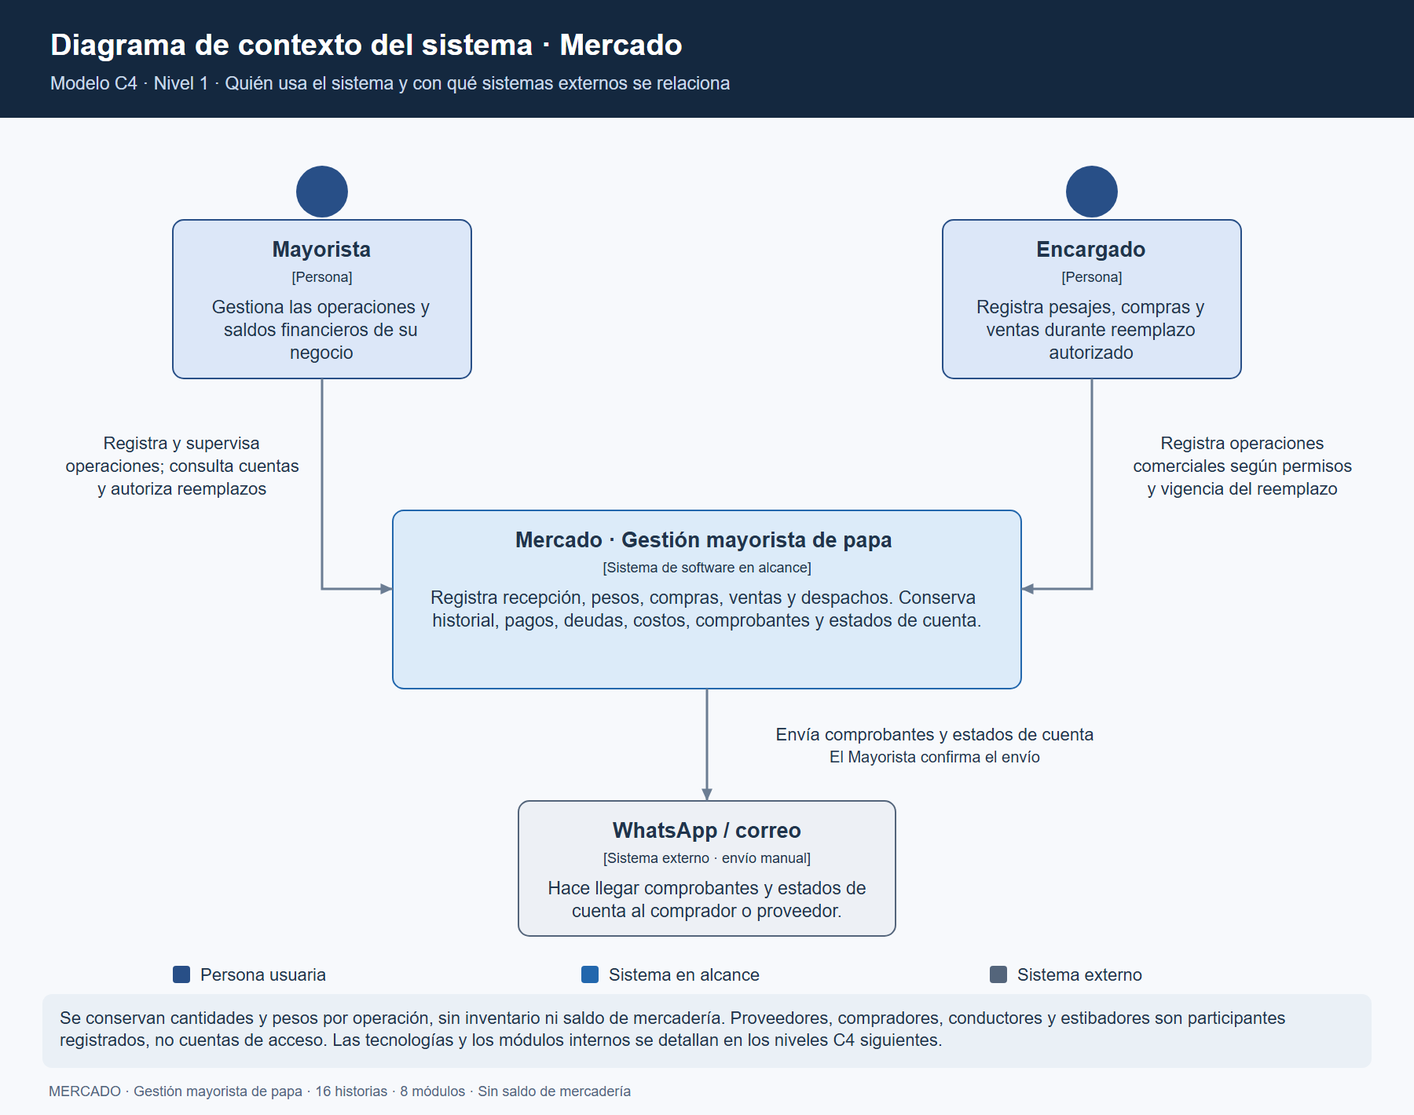
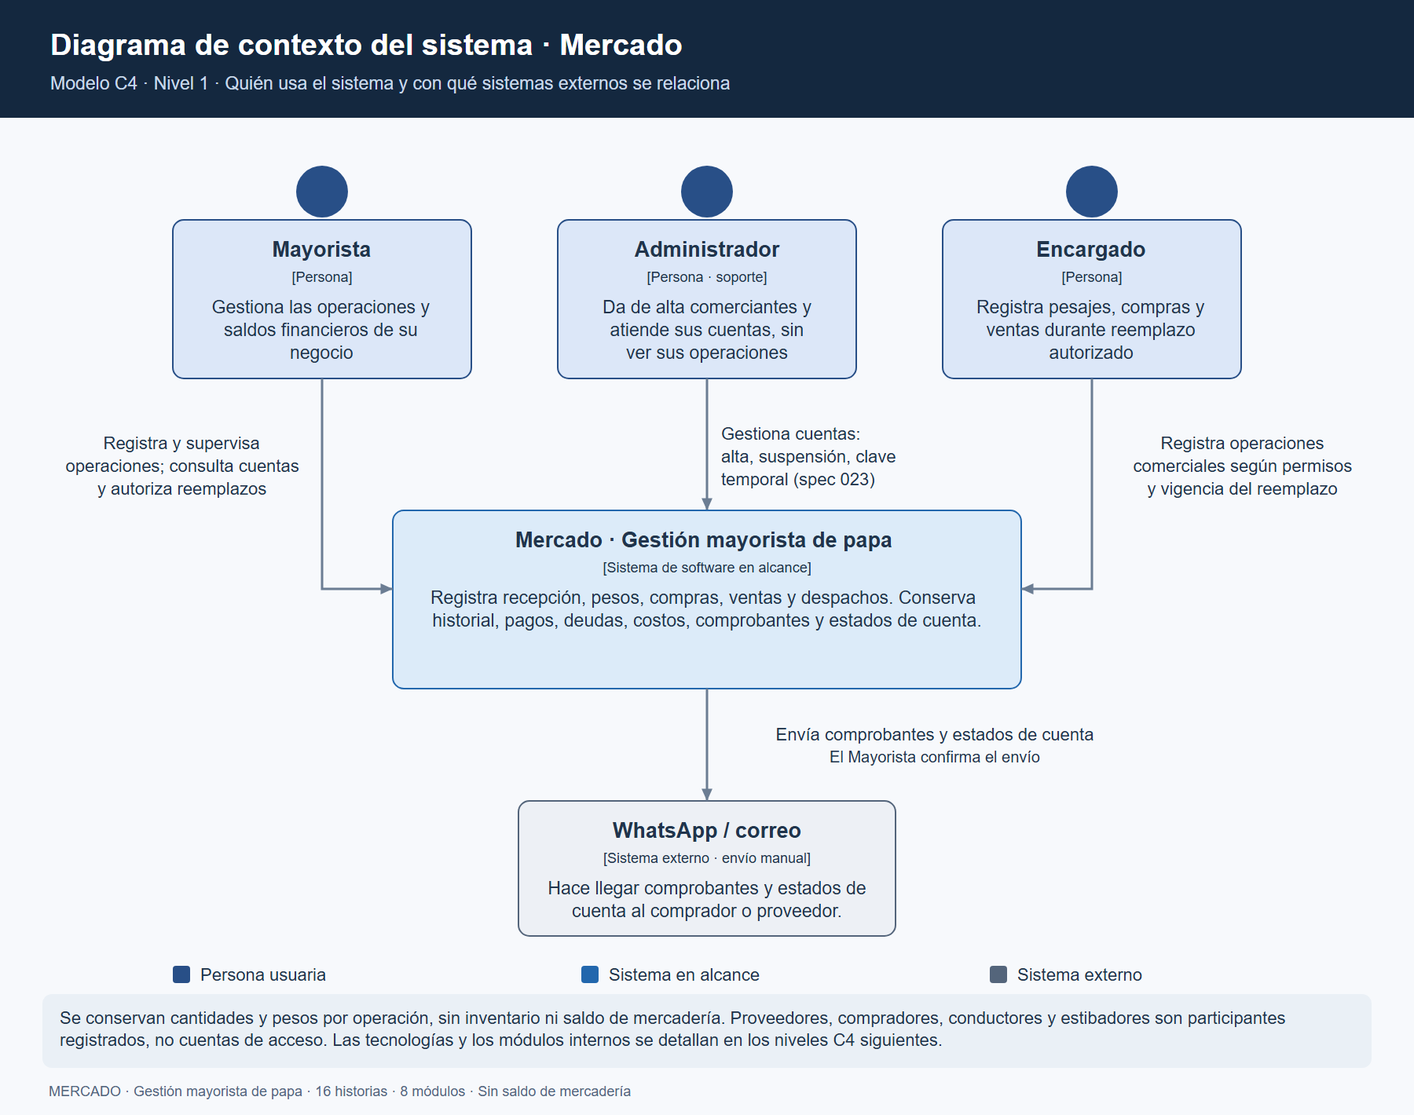
docs(023): Administrador en actores, requisitos, ADR-07, componentes y C4 con evidencia

Changed region(s): [[0.3733, 0.1549, 0.6222, 0.3408], [0.4978, 0.3718, 0.6222, 0.4338]]

diff --git a/specs/023-administrador-comerciantes/tasks.md b/specs/023-administrador-comerciantes/tasks.md
@@ -1,33 +1,33 @@
 # Tareas 023: Administrador de comerciantes y soporte
 
-**Especificación:** [spec 023](spec.md) · **Plan:** [plan 023](plan.md) · **Estado:** pendiente; se implementa después de la exposición del Sprint 2
+**Especificación:** [spec 023](spec.md) · **Plan:** [plan 023](plan.md) · **Estado:** implementada en la rama `feat/023-administrador` el 26 de noviembre de 2026; quedan T2314 (emulador y celular) y T2316 (despliegue)
 
 Cada tarea se marca `[x]` solo con evidencia enlazable.
 
 ## Backend
 
-- [ ] **T2301** Migración 031: `admin` en `user_role`, `businesses.kind` y `users.must_change_password`, solo agregando.
-- [ ] **T2302** `UserRole.Admin`, `BusinessKind` y script `bootstrap:admin`.
-- [ ] **T2303** Inicio de sesión: negocio suspendido → `401`; `must_change_password` limita la sesión; último acceso e intentos fallidos.
-- [ ] **T2304** `PATCH /api/v1/auth/password` para el cambio obligatorio.
-- [ ] **T2305** Rutas `/api/v1/admin/merchants…`: listar, alta, suspender, reactivar, restablecer contraseña, cerrar sesiones y estado.
-- [ ] **T2306** Auditoría de cada acción del Administrador, con motivo.
-- [ ] **T2307** OpenAPI con resumen para cada ruta nueva.
+- [x] **T2301** Migración 031: `admin` en `user_role`, `businesses.kind` y `users.must_change_password`, solo agregando. Evidencia: [migración 031](../../backend/src/platform/database/migrations/202611260031-merchant-administration.ts), con la tabla `admin_operations` para la idempotencia; e2e en base nueva ([verificación](../../docs/sdd/verificacion-administrador-comerciantes-2026-11-26.md)).
+- [x] **T2302** `UserRole.Admin`, `BusinessKind` y script `bootstrap:admin`. Evidencia: [`bootstrap-admin.ts`](../../backend/src/platform/database/bootstrap-admin.ts); probado en base nueva: crea y luego se niega ([verificación](../../docs/sdd/verificacion-administrador-comerciantes-2026-11-26.md)).
+- [x] **T2303** Inicio de sesión: negocio suspendido → `401`; `must_change_password` limita la sesión; último acceso e intentos fallidos. Evidencia: e2e: suspendido → `401`, cambio obligatorio → `403 password-change-required`, contador de intentos ([verificación](../../docs/sdd/verificacion-administrador-comerciantes-2026-11-26.md)).
+- [x] **T2304** `PATCH /api/v1/auth/password` para el cambio obligatorio. Evidencia: [`change-password.use-case.ts`](../../backend/src/modules/identity/application/change-password.use-case.ts); e2e ([verificación](../../docs/sdd/verificacion-administrador-comerciantes-2026-11-26.md)).
+- [x] **T2305** Rutas `/api/v1/admin/merchants…`: listar, alta, suspender, reactivar, restablecer contraseña, cerrar sesiones y estado. Evidencia: [`merchant-administration.controller.ts`](../../backend/src/modules/identity/http/merchant-administration.controller.ts); e2e ([verificación](../../docs/sdd/verificacion-administrador-comerciantes-2026-11-26.md)).
+- [x] **T2306** Auditoría de cada acción del Administrador, con motivo. Evidencia: auditoría en el comerciante y en la plataforma con motivo y `clientOperationId`; e2e ([verificación](../../docs/sdd/verificacion-administrador-comerciantes-2026-11-26.md)).
+- [x] **T2307** OpenAPI con resumen para cada ruta nueva. Evidencia: [`openapi.json`](../../docs/api/openapi.json) regenerado; prueba de resúmenes en verde ([verificación](../../docs/sdd/verificacion-administrador-comerciantes-2026-11-26.md)).
 
 ## App
 
-- [ ] **T2308** Menú del Administrador «Comerciantes» con lista, alta, detalle y acciones de soporte.
-- [ ] **T2309** Pantalla obligatoria «Crea tu contraseña».
-- [ ] **T2310** «¿Olvidó su clave?» según el rol.
+- [x] **T2308** Menú del Administrador «Comerciantes» con lista, alta, detalle y acciones de soporte. Evidencia: [`merchants-screen.tsx`](../../app/src/features/merchants/screens/merchants-screen.tsx); pruebas de la app ([verificación](../../docs/sdd/verificacion-administrador-comerciantes-2026-11-26.md)).
+- [x] **T2309** Pantalla obligatoria «Crea tu contraseña». Evidencia: [`change-password-screen.tsx`](../../app/src/features/auth/screens/change-password-screen.tsx); prueba de navegación ([verificación](../../docs/sdd/verificacion-administrador-comerciantes-2026-11-26.md)).
+- [x] **T2310** «¿Olvidó su clave?» según el rol. Evidencia: [`login-screen.tsx`](../../app/src/features/auth/screens/login-screen.tsx): el Encargado acude al Mayorista y el Mayorista al soporte de MAÑAY ([verificación](../../docs/sdd/verificacion-administrador-comerciantes-2026-11-26.md)).
 
 ## Pruebas y verificación
 
-- [ ] **T2311** Unitarias del backend y de la app.
-- [ ] **T2312** E2e en PostgreSQL, incluida la prueba que exige `403` al Administrador en todas las rutas de negocio.
-- [ ] **T2313** Carpeta «Administrador» en la colección de Postman.
+- [x] **T2311** Unitarias del backend y de la app. Evidencia: backend 369 y app 759 pruebas en verde ([verificación](../../docs/sdd/verificacion-administrador-comerciantes-2026-11-26.md)).
+- [x] **T2312** E2e en PostgreSQL, incluida la prueba que exige `403` al Administrador en todas las rutas de negocio. Evidencia: [`merchant-administration.e2e-spec.ts`](../../backend/test/merchant-administration.e2e-spec.ts); 76 e2e en verde ([verificación](../../docs/sdd/verificacion-administrador-comerciantes-2026-11-26.md)).
+- [x] **T2313** Carpeta «Administrador» en la colección de Postman. Evidencia: [colección aparte](../../backend/test/postman/administrador.postman_collection.json), porque la otra ya usa el límite de 5 inicios de sesión por minuto: 14 peticiones y 23 aserciones sin fallos ([verificación](../../docs/sdd/verificacion-administrador-comerciantes-2026-11-26.md)).
 - [ ] **T2314** Recorrido en el emulador y en el celular con capturas.
 
 ## Documentación y despliegue
 
-- [ ] **T2315** Actores y matriz de autorización, requisitos, ADR-07, componentes y C4.
+- [x] **T2315** Actores y matriz de autorización, requisitos, ADR-07, componentes y C4. Evidencia: [actores](../../docs/01-analisis-de-sistema/01-actores.md), [RF28](../../docs/01-analisis-de-sistema/03-requisitos-funcionales.md), [ADR-07](../../docs/01-analisis-de-sistema/07-decisiones-arquitectonicas.md), [componentes](../../docs/02-arquitectura-software/componentes-arquitectonicos.md) y [C4 nivel 1](../../docs/04-modelo-c4/Nivel1-DiagramadeContextodelSistema.md) ([verificación](../../docs/sdd/verificacion-administrador-comerciantes-2026-11-26.md)).
 - [ ] **T2316** Despliegue en Render y primer Administrador en Supabase con `bootstrap:admin`.

diff --git a/docs/sdd/verificacion-administrador-comerciantes-2026-11-26.md b/docs/sdd/verificacion-administrador-comerciantes-2026-11-26.md
@@ -1,0 +1,53 @@
+# Verificación del Administrador de comerciantes
+
+> **Spec:** [023](../../specs/023-administrador-comerciantes/spec.md) · **Fecha:** 26 de noviembre de 2026 · **Rama:** `feat/023-administrador` · **Decisión:** [ADR-07](../01-analisis-de-sistema/07-decisiones-arquitectonicas.md)
+
+Verificación local del backend y la app antes de fusionar. No incluye el emulador, el celular ni Render y Supabase (ver «Pendiente»).
+
+## Backend
+
+| Comprobación | Resultado |
+| --- | --- |
+| `npx tsc --noEmit --incremental false` | Sin errores |
+| `npm run lint` | Sin errores (solo advertencias que ya existían) |
+| `npm test` (Jest, unitarias) | 77 suites, 369 pruebas, todas en verde |
+| `npm run test:e2e` en PostgreSQL 17 portable, base nueva | 11 suites, 76 pruebas, todas en verde |
+| `npm run build` | Correcto |
+| `bootstrap:admin` en una base nueva | La primera vez crea el negocio de plataforma y el Administrador; la segunda se niega («an administrator already exists») |
+| Postman ([colección del Administrador](../../backend/test/postman/administrador.postman_collection.json)) | 14 peticiones y 23 aserciones sin fallos ([salida](../../backend/test/postman/resultados/2026-11-26-administrador.txt)); la contraseña del Administrador no aparece en la salida |
+| [`openapi.json`](../api/openapi.json) | Regenerado con la API local: siete rutas del Administrador y `PATCH /auth/password`, cada una con resumen en español |
+
+La prueba e2e [`merchant-administration.e2e-spec.ts`](../../backend/test/merchant-administration.e2e-spec.ts) cubre:
+
+- alta idempotente (mismo `clientOperationId` → mismo comerciante; otros datos → `409 operation-id-conflict`; usuario repetido → `409 username-taken`);
+- primer acceso con la contraseña temporal: `GET /auth/session` responde, cualquier otra ruta `403 password-change-required`, y tras `PATCH /auth/password` se trabaja con normalidad;
+- búsqueda sin distinguir mayúsculas; el negocio de plataforma nunca aparece ni se puede suspender (`404`);
+- estado de soporte: intentos fallidos, último acceso y sesiones abiertas; un acceso correcto reinicia el contador;
+- suspensión inmediata (sesión abierta `401`, inicio de sesión `401`), con motivo auditado en el comerciante y en la plataforma; reactivación;
+- contraseña temporal nueva: la anterior y las sesiones abiertas dejan de valer;
+- **barrido del contrato OpenAPI**: cada ruta protegida fuera de `/auth`, `/admin` y `/health` responde `403` al Administrador.
+
+El barrido encontró un hueco: las lecturas del catálogo (`GET /catalog/buyers`, proveedores y variedades) no declaraban roles y respondían `200` al Administrador. Como filtran por negocio, solo habría visto el negocio de plataforma, que está vacío. Aun así se cerró en dos niveles: el `RolesGuard` niega al Administrador toda ruta que no lo nombre, y el catálogo declara sus roles por clase.
+
+## App
+
+| Comprobación | Resultado |
+| --- | --- |
+| `npm run typecheck` | Sin errores |
+| `npm run lint` | Sin errores |
+| `npm test -- --runInBand` | 111 suites, 759 pruebas, todas en verde |
+
+Las pruebas nuevas ([`merchant-administration.test.tsx`](../../app/tests/merchants/merchant-administration.test.tsx) y [`root-navigation.test.tsx`](../../app/tests/auth/root-navigation.test.tsx)) comprueban:
+
+- la sesión del Administrador y el cambio obligatorio se guardan y se validan;
+- la contraseña temporal no usa caracteres que se confunden;
+- el alta muestra la contraseña temporal una sola vez;
+- cada acción de soporte exige motivo, pide confirmación y, tras perder la conexión, reintenta con el mismo `clientOperationId`;
+- el Administrador solo tiene la pantalla «Comerciantes» y no ve la barra inferior;
+- con una contraseña temporal, la capa bloqueante muestra «Crea tu contraseña».
+
+## Pendiente
+
+- **T2314:** recorrido en el emulador y en el celular, con capturas.
+- **T2316:** despliegue en Render y primer Administrador en Supabase. El usuario lo crea con `npm run bootstrap:admin` desde su propia terminal.
+- Lector de pantalla: no verificado.

diff --git a/docs/01-analisis-de-sistema/01-actores.md b/docs/01-analisis-de-sistema/01-actores.md
@@ -1,6 +1,6 @@
 # Actores y permisos
 
-> **Proyecto:** Gestión comercial mayorista de papa · **Entregable:** 1 · **Versión:** 2.0 · **Actualización:** 29 de octubre de 2026
+> **Proyecto:** Gestión comercial mayorista de papa · **Entregable:** 1 · **Versión:** 2.1 · **Actualización:** 26 de noviembre de 2026
 
 ## Usuarios del sistema
 
@@ -8,6 +8,14 @@
 | --- | --- | --- |
 | Mayorista | Gestionar y supervisar todo el negocio | Acceso completo: recepción y pesaje, compras, ventas, cuentas, caja, costos logísticos, documentos, mensajería, reportes, analítica, auditoría y administración de Encargados. |
 | Encargado | Mantener la operación cuando el Mayorista está ausente | Con credenciales propias y un reemplazo vigente, registra pesajes, compras y ventas. No accede a cuentas, caja, documentos, mensajería, reportes, analítica ni administración. Los efectos automáticos de sus operaciones (deuda, caja, flete) se aplican sin darle acceso a esos módulos. |
+
+## Administración de la plataforma (spec 023)
+
+| Actor | Necesidad principal | Responsabilidades en el sistema |
+| --- | --- | --- |
+| Administrador | Dar de alta a cada comerciante y atender sus cuentas (soporte) | Crea el negocio y la cuenta de su Mayorista con una contraseña temporal; busca comerciantes, consulta el estado de la cuenta (último acceso, intentos fallidos, sesiones abiertas, Encargados activos), suspende, reactiva, restablece la contraseña del Mayorista y cierra sesiones, siempre con motivo. **No ve ni registra operaciones** de ningún comerciante. |
+
+Cada comerciante es un negocio con un solo Mayorista (CL-23-05); el Mayorista crea a sus propios Encargados. El Administrador vive en un negocio de plataforma que nunca recibe operaciones. Sus acciones quedan auditadas en el comerciante afectado y en la plataforma.
 
 ## Participantes comerciales
 
@@ -35,6 +43,19 @@ El negocio compra cargamentos de papa, pesa saco por saco durante la descarga, l
 | Enviar documentos por WhatsApp o correo | Sí | No |
 | Consultar reportes, historial, analítica y auditoría | Sí | No |
 | Administrar Encargados y reemplazos | Sí | No |
+
+El Administrador recibe `403` en todas las acciones de esta matriz: el servidor solo le abre las rutas que lo nombran (`/api/v1/admin/merchants`). Una prueba e2e recorre el contrato OpenAPI completo y lo exige.
+
+| Acción de soporte | Administrador | Mayorista | Encargado |
+| --- | --- | --- | --- |
+| Dar de alta un comerciante con su Mayorista | Sí | No | No |
+| Suspender o reactivar un comerciante | Sí, con motivo | No | No |
+| Asignar una contraseña temporal al Mayorista | Sí, con motivo | No | No |
+| Asignar una contraseña al Encargado | No | Sí | No |
+| Cerrar todas las sesiones de un comerciante | Sí, con motivo | No | No |
+| Cambiar su propia contraseña | Sí | Sí | Sí |
+
+Tras una contraseña temporal, la sesión solo permite crear la contraseña propia; el Administrador nunca conoce la definitiva (CL-23-03).
 
 El reemplazo dura como máximo 24 horas y el Mayorista puede revocarlo en cualquier momento. La API revalida sesión, rol, negocio y reemplazo en cada operación, incluidas las órdenes capturadas sin conexión que se sincronizan después. Iniciar sesión no concede por sí mismo permisos comerciales al Encargado.
 

diff --git a/docs/01-analisis-de-sistema/07-decisiones-arquitectonicas.md b/docs/01-analisis-de-sistema/07-decisiones-arquitectonicas.md
@@ -1,6 +1,6 @@
 # Decisiones arquitectónicas
 
-> **Proyecto:** Gestión comercial mayorista de papa · **Entregable:** 1 · **Versión:** 2.1 · **Actualización:** 25 de noviembre de 2026
+> **Proyecto:** Gestión comercial mayorista de papa · **Entregable:** 1 · **Versión:** 2.2 · **Actualización:** 26 de noviembre de 2026
 
 ## Registro de decisiones
 
@@ -25,6 +25,7 @@ Los códigos CL (clarificación) identifican las decisiones aprobadas durante la
 | — | Organización en ocho módulos de negocio y estado de cuenta del comprador (ver ADR) | 29 oct. 2026 | RF27 |
 | — | Monorepo con entrega y despliegue continuos (ver ADR) | 29 oct. 2026 | AC03, AC07, AC08, DA06, DA07 |
 | — | Despliegue en Render (API) y Supabase (PostgreSQL), plan gratuito (ver ADR) | 20 nov. 2026 | AC01, AC02, AC08, R03 |
+| CL-23-01…05 | Administrador de comerciantes que gestiona cuentas sin ver operaciones (ver ADR) | 26 nov. 2026 | RF01, RF28, AC04 |
 
 CL-11 (margen por valoración de lotes) quedó sin efecto con el retiro del control de existencias.
 
@@ -88,6 +89,17 @@ Consecuencias:
 - Es un entorno de prueba y demostración. Para producción con uso real conviene un plan de pago o un servidor propio con el despliegue por SSH de ADR-05.
 
 Detalle en la [vista de despliegue](../03-diseño-de-software/vista-de-despliegue.md) y la [guía de despliegue](../03-diseño-de-software/guia-despliegue-supabase-render.md).
+
+## ADR-07 · Administrador de comerciantes sin acceso a operaciones
+
+**Estado:** aprobado el 26 de noviembre de 2026 ([spec 023](../../specs/023-administrador-comerciantes/spec.md)).
+
+Un rol `admin` en un negocio de plataforma único (`businesses.kind = platform`) da de alta comerciantes y les da soporte desde la misma app, en el menú «Comerciantes». No es un «superusuario»: el `RolesGuard` le niega toda ruta que no lo nombre, de modo que un controlador nuevo queda cerrado para él por omisión. Cada acción lleva motivo y `clientOperationId` (tabla `admin_operations`), corre en una transacción y se audita en el comerciante y en la plataforma. Una contraseña temporal obliga al usuario a crear la suya antes de cualquier otra cosa.
+
+Consecuencias:
+- El aislamiento por negocio se mantiene: el Administrador nunca lee compras, ventas, cuentas ni reportes de un comerciante.
+- Suspender un negocio corta al instante las sesiones de todos sus usuarios; los datos no se borran.
+- El primer Administrador lo crea el dueño de la plataforma con `npm run bootstrap:admin` desde su propia terminal; el script se niega si ya existe uno.
 
 ## Condiciones de habilitación de la predicción (CL-08)
 

diff --git a/docs/01-analisis-de-sistema/03-requisitos-funcionales.md b/docs/01-analisis-de-sistema/03-requisitos-funcionales.md
@@ -1,11 +1,12 @@
 # Requisitos funcionales
 
-> **Proyecto:** Gestión comercial mayorista de papa · **Entregable:** 1 · **Versión:** 2.0 · **Actualización:** 29 de octubre de 2026
+> **Proyecto:** Gestión comercial mayorista de papa · **Entregable:** 1 · **Versión:** 2.1 · **Actualización:** 26 de noviembre de 2026
 
 | Módulo | Código | Requisito |
 | --- | --- | --- |
 | Identidad y acceso | RF01 | Permitir iniciar y cerrar sesión con credenciales individuales, proteger las rutas y revocar el acceso de la sesión cerrada. |
 | Identidad y acceso | RF02 | Permitir al Mayorista autorizar y revocar reemplazos de máximo 24 horas; restringir al Encargado al pesaje, compras y ventas durante su vigencia. |
+| Identidad y acceso | RF28 | Permitir al Administrador de la plataforma dar de alta comerciantes (negocio y Mayorista con contraseña temporal), suspenderlos, reactivarlos, restablecer la contraseña del Mayorista, cerrar sus sesiones y consultar el estado de la cuenta, con motivo auditado y sin acceso a las operaciones (spec 023). |
 | Transversal: referencias | RF03 | Registrar y consultar proveedores y compradores desde los formularios de recepción, compras y ventas, conservando contacto, ubicación, límite de crédito y estado. |
 | Transversal: referencias | RF04 | Registrar y consultar los datos de la papa desde recepción y ventas: variedad, calidad, procedencia, presentación, unidad de medida y precio referencial. Calidad y procedencia se eligen por saco y por línea de venta, con la opción «No informada». |
 | Recepción y compras | RF05 | Registrar fecha, proveedor, teléfono, vehículo, conductor y variedades esperadas antes de la descarga. |
@@ -67,6 +68,7 @@ RF08 y RF09 (control de existencias) se retiraron del alcance el 7 de octubre de
 | 006 Reportes y comprobantes | Documentos; Reportes y analítica | RF12, RF16–RF18, RF24, RF27 |
 | 007 Analítica progresiva | Reportes y analítica | RF19, RF20 |
 | 008 Mensajería y notificaciones | Mensajería | RF16, RF23, RF25, RF26 |
+| 023 Administrador de comerciantes | Identidad y acceso | RF01, RF28 |
 
 ## Alcance: registro comercial sin control de existencias
 

diff --git a/docs/04-modelo-c4/Nivel1-DiagramadeContextodelSistema.md b/docs/04-modelo-c4/Nivel1-DiagramadeContextodelSistema.md
@@ -18,6 +18,7 @@ Fuente editable: [nivel1-contexto.svg](../../img/fuentes-svg/nivel1-contexto.svg
 | --- | --- | --- |
 | Mayorista | Gestionar y supervisar el negocio | Registra operaciones, consulta cuentas, reportes y auditoría, registra pagos, cobros, flete y estiba, genera documentos y los envía, y controla los reemplazos |
 | Encargado | Mantener la operación durante la ausencia del Mayorista | Con credenciales propias y un reemplazo vigente, registra pesajes, compras y ventas |
+| Administrador | Dar de alta y atender las cuentas de cada comerciante | Crea comerciantes, suspende o reactiva, asigna contraseñas temporales y cierra sesiones; no ve operaciones (spec 023) |
 
 ## Sistemas
 
@@ -34,6 +35,7 @@ El envío es manual: Mercado abre WhatsApp o el correo en el dispositivo con el 
 | --- | --- | --- |
 | Mayorista | Mercado | Registra, consulta y supervisa las operaciones y saldos de su negocio |
 | Encargado | Mercado | Registra pesajes, compras y ventas durante un reemplazo vigente |
+| Administrador | Mercado | Gestiona las cuentas de los comerciantes, sin acceso a sus operaciones |
 | Mercado | WhatsApp / correo | Entrega comprobantes, estados de cuenta, imágenes o documentos cuando el Mayorista los envía |
 | WhatsApp / correo | Proveedor o comprador | Recibe el documento |
 

diff --git a/specs/README.md b/specs/README.md
@@ -25,7 +25,7 @@ Este índice conecta la línea base documental, el diseño de Figma y el trabajo
 | [019](019-stitch-en-celular/spec.md) | Diseño Stitch también en el celular | RQ-ST13, RQ-ST14 | En curso desde el 20 de noviembre de 2026 | Compra y venta con la hoja Stitch en todos los anchos; CL-19-01 a CL-19-03 |
 | [020](020-jest-backend/spec.md) | Pruebas del backend con Jest | Sprint 2, actividad 7 | Implementada el 21 de noviembre de 2026 | Jest 30 en ESM con SWC; 365 unitarias y 68 e2e |
 | [021](021-modulos-backend/spec.md) | Carpetas del backend agrupadas por módulo | Componentes arquitectónicos | Implementada el 22 de noviembre de 2026 | modules/, shared/, platform/ y retired/; sin cambios de comportamiento |
-| [023](023-administrador-comerciantes/spec.md) | Administrador de comerciantes y soporte | Identidad y acceso | Aprobada el 26 de noviembre de 2026; se implementa después de la exposición | Alta, suspensión y soporte de cuentas sin ver operaciones |
+| [023](023-administrador-comerciantes/spec.md) | Administrador de comerciantes y soporte | Identidad y acceso | Implementada en `feat/023-administrador` el 26 de noviembre de 2026; faltan emulador, celular y despliegue | Alta, suspensión y soporte de cuentas sin ver operaciones |
 
 ## Artefactos transversales
 

diff --git a/docs/02-arquitectura-software/componentes-arquitectonicos.md b/docs/02-arquitectura-software/componentes-arquitectonicos.md
@@ -8,7 +8,7 @@ Este documento es la referencia única de los módulos del sistema (ADR-04). Las
 
 | # | Módulo | Responsabilidad | Historias | Requisitos | Carpetas en `backend/src` |
 | --- | --- | --- | --- | --- | --- |
-| 1 | Identidad y acceso | Sesión, Encargados y reemplazos | HU07, HU12 | RF01, RF02 | `identity` |
+| 1 | Identidad y acceso | Sesión, Encargados y reemplazos; administración de comerciantes y soporte (spec 023, ADR-07) | HU07, HU12 | RF01, RF02, RF28 | `identity` |
 | 2 | Recepción y compras | Pesaje saco por saco, cierre y liquidación al proveedor | HU01, HU02 | RF05–RF07, RF06A, RF06B, RF14 | `reception`, `purchase` |
 | 3 | Ventas y despachos | Venta, despacho, anulación y devoluciones comerciales | HU03 | RF10, RF11, RF13 | `sales` |
 | 4 | Cuentas y caja | Cuotas, abonos, pagos, cobros, caja y avisos de vencimiento | HU04, HU08, HU14 | RF13–RF16 | `accounts` |

diff --git a/specs/023-administrador-comerciantes/spec.md b/specs/023-administrador-comerciantes/spec.md
@@ -1,6 +1,6 @@
 # Especificación 023: Administrador de comerciantes y soporte
 
-**Estado:** aprobada por el usuario el 26 de noviembre de 2026 · **Implementación:** después de la exposición del Sprint 2
+**Estado:** aprobada por el usuario el 26 de noviembre de 2026 · **Implementación:** rama `feat/023-administrador`, 26 de noviembre de 2026 ([verificación](../../docs/sdd/verificacion-administrador-comerciantes-2026-11-26.md))
 **Origen:** el usuario quiere ofrecer MAÑAY a varios comerciantes: «yo voy a ser el administrador donde administraré a cada comerciante. Cada comerciante tendrá su acceso hacia la app, según sus datos y sus credenciales, y podrá permitir a sus propios colaboradores». Además quiere atender como soporte, por ejemplo cuando un comerciante olvida su contraseña o la app le falla.
 
 ## Objetivo
